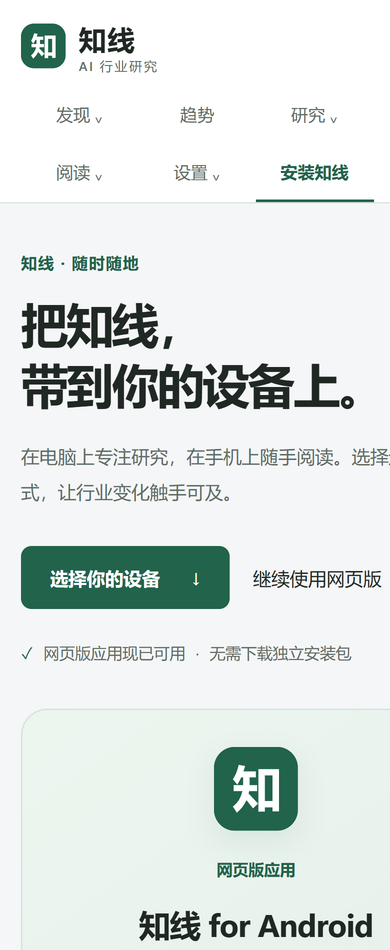
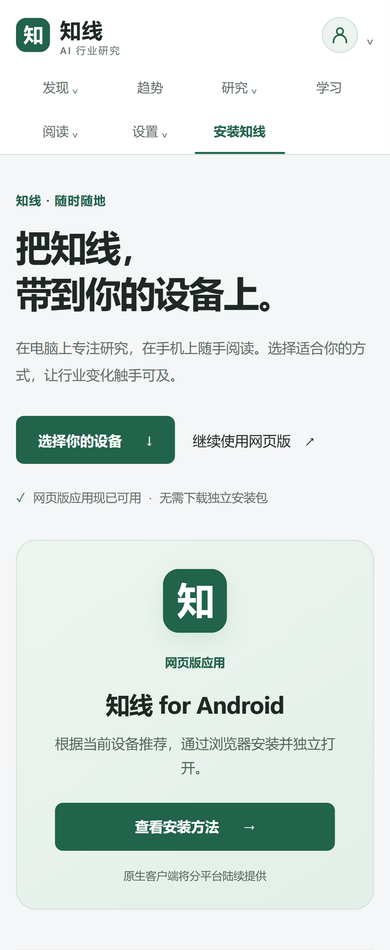
docs: record installation phase one delivery and fix mobile preview

diff --git a/docs/roadmap.md b/docs/roadmap.md
@@ -8,7 +8,7 @@
 
 | 状态 | 版本/阶段 | 范围 | 发布条件 |
 | --- | --- | --- | --- |
-| 阶段一开发及浏览器验收完成 | 安装知线与多平台下载 | `/install` 固定入口、五平台指南、PWA 安装状态、`/settings` 缓存管理；本机 Edge 桌面/手机视口 32/32 + 真实 SW 重注册 2/2，Lint/双类型检查/构建通过；[PR #20](https://github.com/CoderDongHuang/zhixian/pull/20) | [推进记录](安装知线与多平台下载规划.md)；系统真实安装/卸载待验收，原生包与商店发行仍按阶段二至五推进 |
+| 阶段一开发及浏览器验收完成，已合并推送 main | 安装知线与多平台下载 | `/install` 固定入口、五平台指南、PWA 安装状态、`/settings` 缓存管理；本机 Edge 桌面/手机视口 32/32 + 真实 SW 重注册 2/2，Lint/双类型检查/构建通过；[完整 CI](https://github.com/CoderDongHuang/zhixian/actions/runs/39433677862) 成功；[PR #20](https://github.com/CoderDongHuang/zhixian/pull/20) 已合并，提交 `026e4e4` | [推进记录](安装知线与多平台下载规划.md)；系统真实安装/卸载待验收，原生包与商店发行仍按阶段二至五推进 |
 | 历史发布基线，本轮未核验线上版本 | V0.3.1 Web/PWA | 信息流、学习中心、报告导出、微信小程序、实体关系、Web Push | 不把历史验收当作本轮线上验收 |
 | 发布候选，原生发行仍阻塞 | V0.4.0 RC | React Native App、移动同步、Expo Push、离线阅读、语音和生物识别；依赖回补/同步代码及 CI 已通过 | EAS/签名、真机与 48 小时稳定性验收；官方安全版本发布后撤销临时回补 |
 | 代码、隔离/CI 与生产迁移完成 | V0.4 稳定性加固 | 历史 P0/P1/P2 及本轮 R01-R16 代码补漏、安全、迁移、数据治理和工程门禁 | 平台配置、完整实例灾备与灰度验收；R05 人工质量与 R09 真机另行验收 |

diff --git a/docs/安装知线与多平台下载规划.md b/docs/安装知线与多平台下载规划.md
@@ -214,7 +214,7 @@
 - 本机检查：Lint、应用 TypeScript、测试 TypeScript、生产构建均通过；Edge 独立测试 profile 的桌面/手机视口专项 **32/32** 通过（正式命令复验 1.1 分钟），真实 Service Worker 重注册补充测试 **2/2** 通过，合计 **34 项**。覆盖 360、390、640、768、860、1440 像素，菜单边界、键盘焦点、平台选择、设备识别、独立窗口、内置浏览器、安装状态与缓存范围/离线/失败，并确认重新激活后其他缓存及本地设置保留。
 - 视觉检查：已查看 [桌面截图](images/install-desktop-20261020.png) 与 [手机视口截图](images/install-mobile-20261020.png)，文字、卡片、两行导航与边界正常。交互测试完整截图保存在本机忽略目录 `test-results/install-phase-one/`。
 - 复现：先 `npm run build`，再 `npm run test:install`；Windows 可设置 `E2E_BROWSER_CHANNEL=msedge` 使用已安装 Edge。公开页配置强制使用不可用的本地测试库地址，不读取生产库；完整 `test:e2e` 仍需配置隔离测试库。
-- GitHub 交付：[合并请求 #20](https://github.com/CoderDongHuang/zhixian/pull/20)，分支 `codex/install-phase-one`，实现提交 `d196f0a`；最新完整 CI 和合并提交可在该 PR 的检查列表及合并记录核验。
+- GitHub 交付：**已完成合并并推送 main（2026-10-20）**。[合并请求 #20](https://github.com/CoderDongHuang/zhixian/pull/20) 已合并，合并提交 `026e4e4`；实现提交 `d196f0a`，缓存保护补修 `77af6b0`。[完整 CI 39433677862](https://github.com/CoderDongHuang/zhixian/actions/runs/39433677862) 全部通过（7 分 21 秒），包含隔离数据库、HTTP 与桌面/手机浏览器回归。合并后本次仅补齐交付记录和修正手机截图的缩放比例。
 
 | 验证对象 | 本次结果 | 后续验证 |
 | --- | --- | --- |
